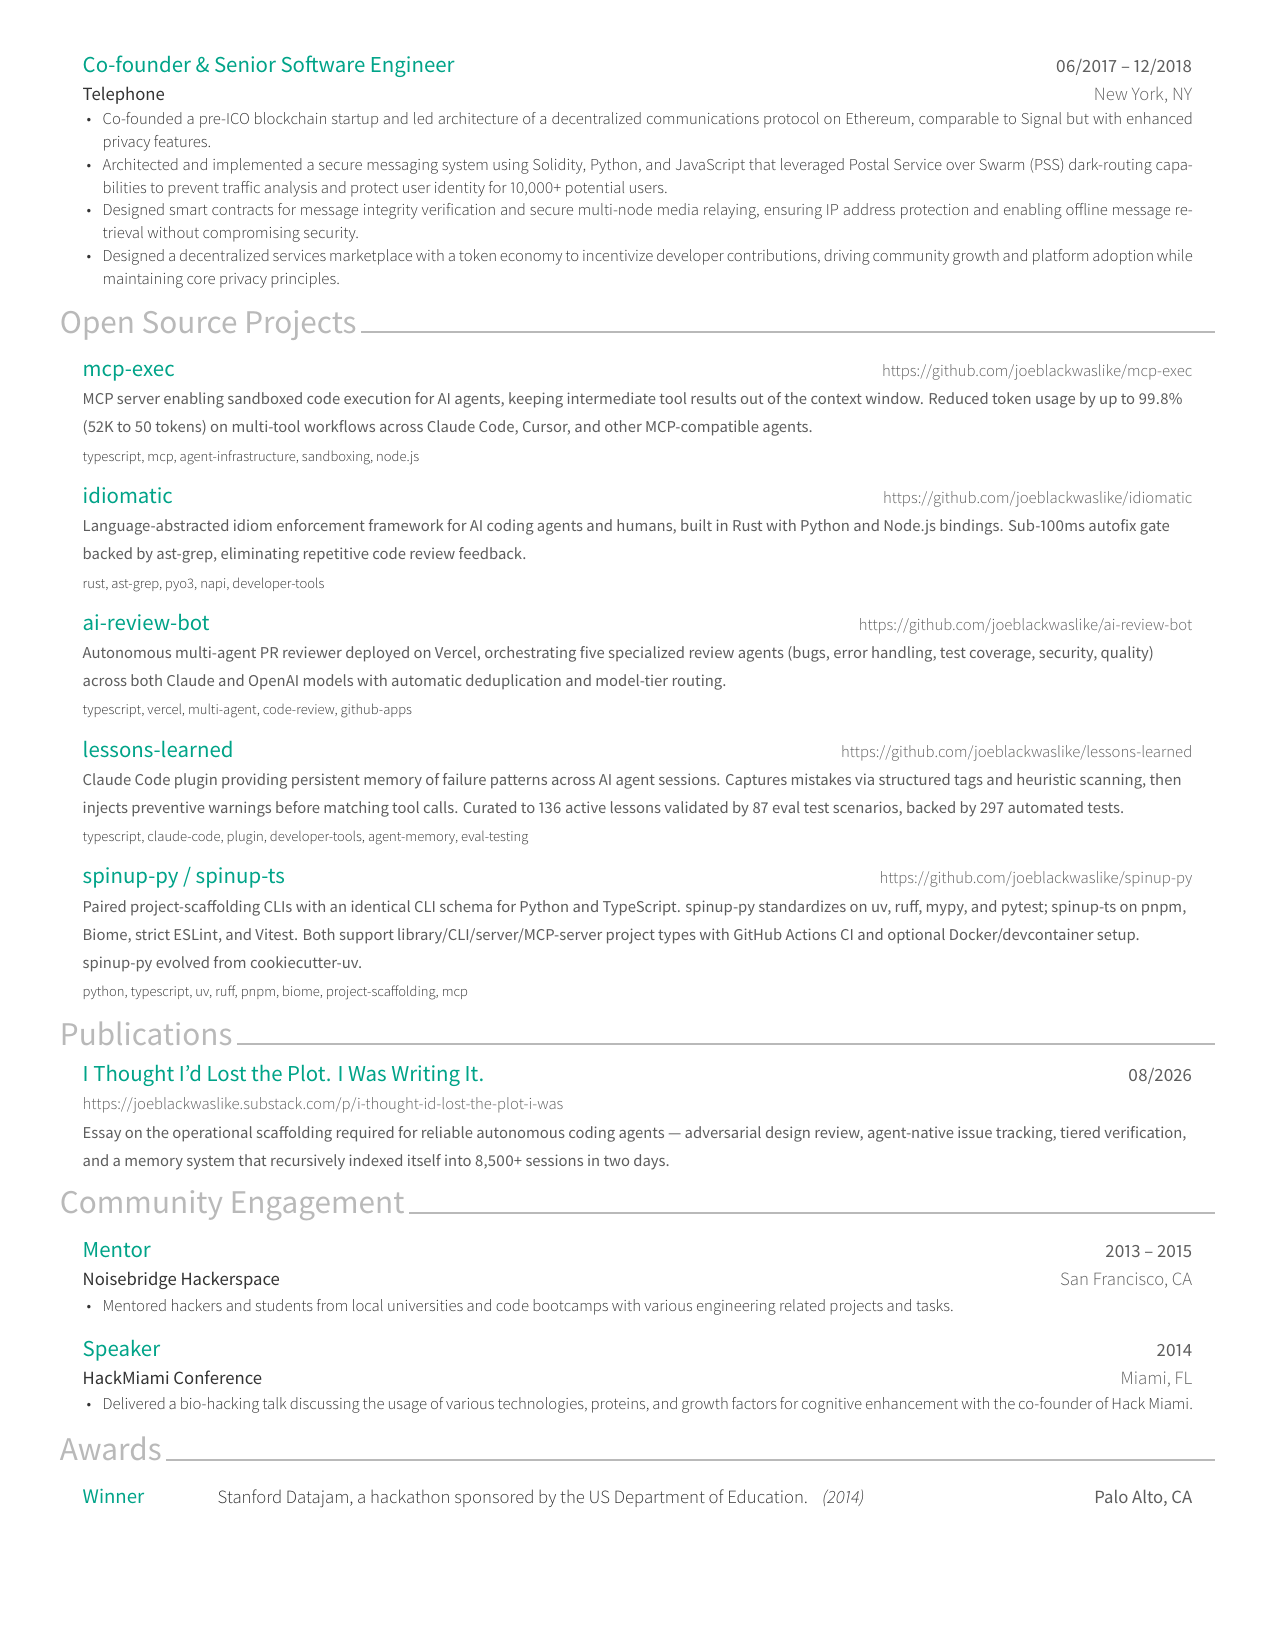
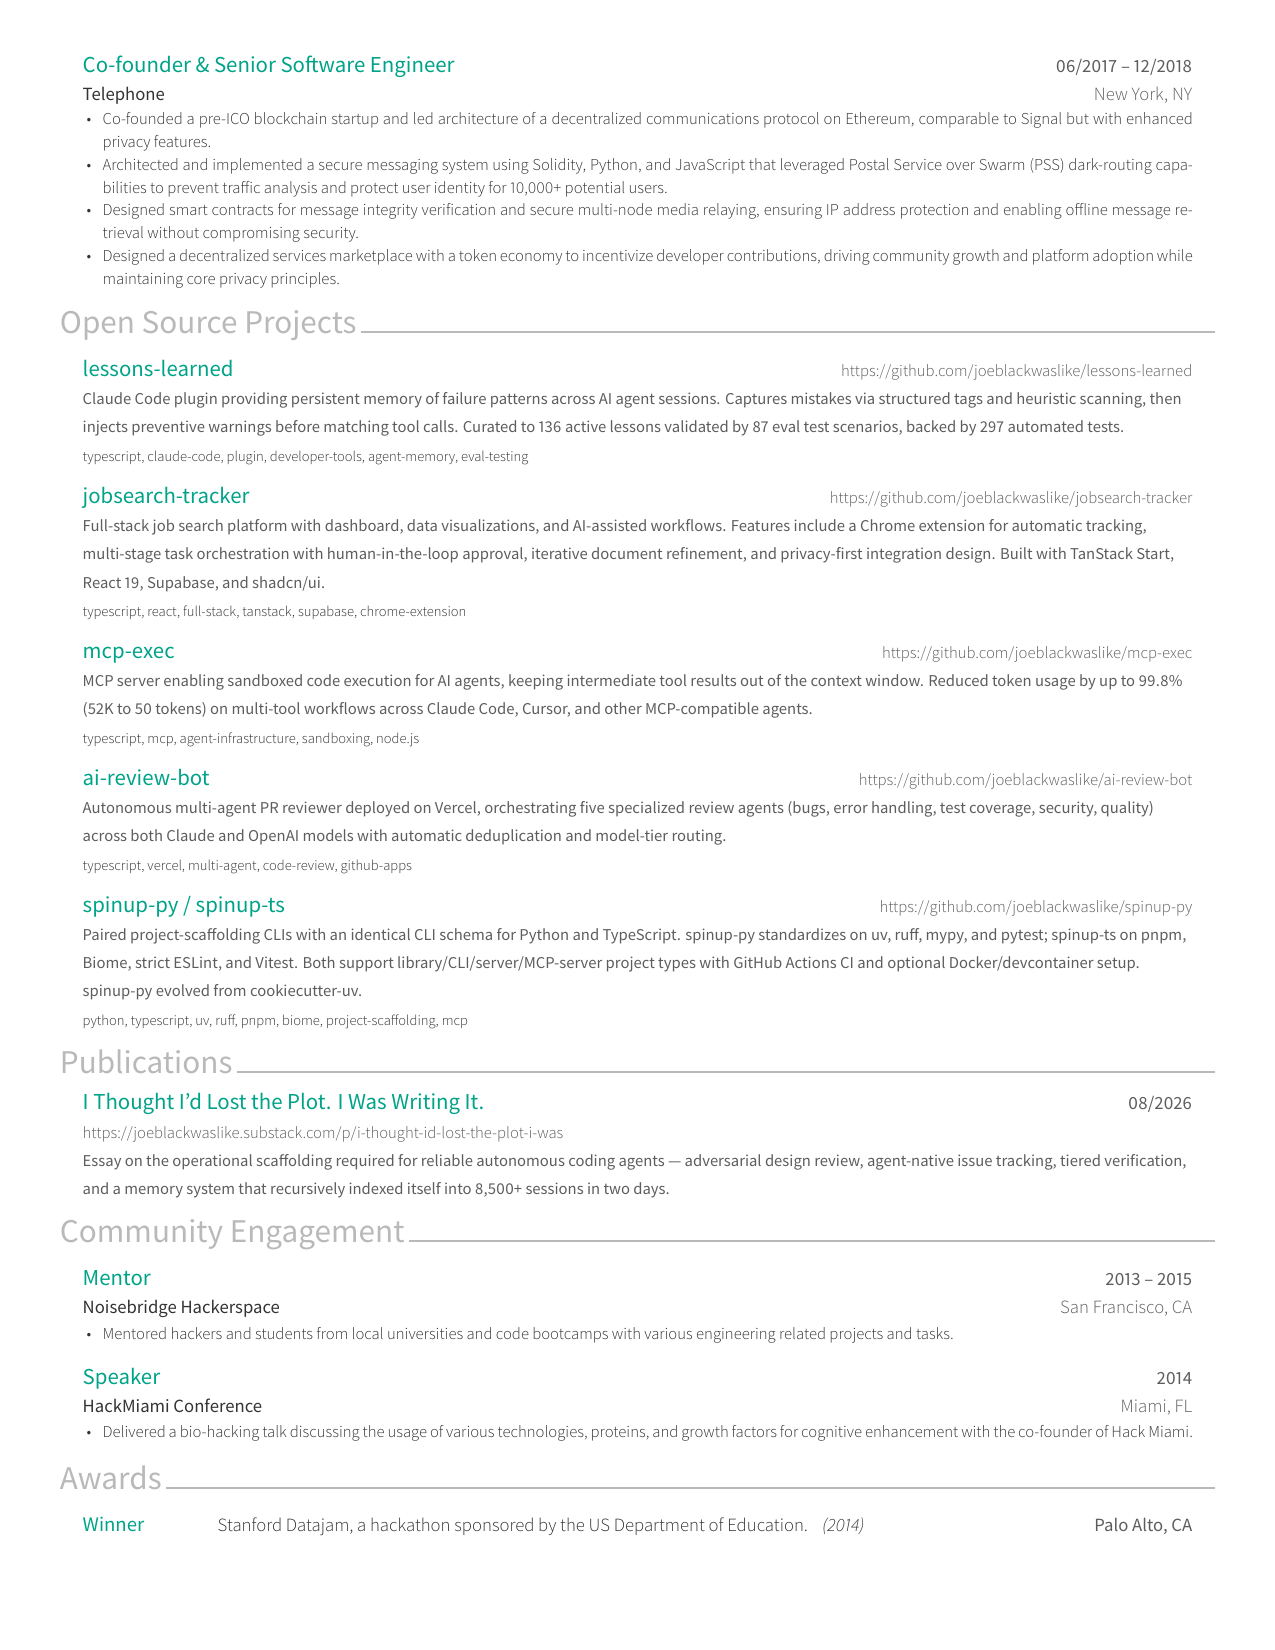
docs: sync README with reordered projects (jobsearch-tracker for idiomatic)

diff --git a/README.md b/README.md
@@ -106,25 +106,26 @@ Work Experience
    maintaining core privacy principles.
 
 Open Source Projects
+ lessons-learned                                                                                                  https://github.com/joeblackwaslike/lessons-learned
+ Claude Code plugin providing persistent memory of failure patterns across AI agent sessions. Captures mistakes via structured tags and heuristic scanning, then
+ injects preventive warnings before matching tool calls. Curated to 136 active lessons validated by 87 eval test scenarios, backed by 297 automated tests.
+ typescript, claude-code, plugin, developer-tools, agent-memory, eval-testing
+
+ jobsearch-tracker                                                                                              https://github.com/joeblackwaslike/jobsearch-tracker
+ Full-stack job search platform with dashboard, data visualizations, and AI-assisted workflows. Features include a Chrome extension for automatic tracking,
+ multi-stage task orchestration with human-in-the-loop approval, iterative document refinement, and privacy-first integration design. Built with TanStack Start,
+ React 19, Supabase, and shadcn/ui.
+ typescript, react, full-stack, tanstack, supabase, chrome-extension
+
  mcp-exec                                                                                                               https://github.com/joeblackwaslike/mcp-exec
  MCP server enabling sandboxed code execution for AI agents, keeping intermediate tool results out of the context window. Reduced token usage by up to 99.8%
  (52K to 50 tokens) on multi-tool workflows across Claude Code, Cursor, and other MCP-compatible agents.
  typescript, mcp, agent-infrastructure, sandboxing, node.js
 
- idiomatic                                                                                                              https://github.com/joeblackwaslike/idiomatic
- Language-abstracted idiom enforcement framework for AI coding agents and humans, built in Rust with Python and Node.js bindings. Sub-100ms autofix gate
- backed by ast-grep, eliminating repetitive code review feedback.
- rust, ast-grep, pyo3, napi, developer-tools
-
  ai-review-bot                                                                                                      https://github.com/joeblackwaslike/ai-review-bot
  Autonomous multi-agent PR reviewer deployed on Vercel, orchestrating five specialized review agents (bugs, error handling, test coverage, security, quality)
  across both Claude and OpenAI models with automatic deduplication and model-tier routing.
  typescript, vercel, multi-agent, code-review, github-apps
-
- lessons-learned                                                                                                  https://github.com/joeblackwaslike/lessons-learned
- Claude Code plugin providing persistent memory of failure patterns across AI agent sessions. Captures mistakes via structured tags and heuristic scanning, then
- injects preventive warnings before matching tool calls. Curated to 136 active lessons validated by 87 eval test scenarios, backed by 297 automated tests.
- typescript, claude-code, plugin, developer-tools, agent-memory, eval-testing
 
  spinup-py / spinup-ts                                                                                                 https://github.com/joeblackwaslike/spinup-py
  Paired project-scaffolding CLIs with an identical CLI schema for Python and TypeScript. spinup-py standardizes on uv, ruff, mypy, and pytest; spinup-ts on pnpm,
